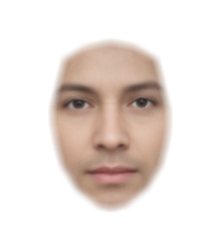
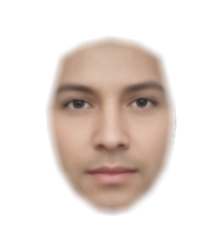
Smaller erode radius when creating face mask

Changed region(s): [[0.1909, 0.14, 0.8182, 0.868]]

diff --git a/transformer/blender.py b/transformer/blender.py
@@ -3,7 +3,7 @@ import numpy as np
 import scipy.sparse
 
 def mask_from_points(size, points):
-  radius = 15  # kernel size
+  radius = 10  # kernel size
   kernel = np.ones((radius, radius), np.uint8)
 
   mask = np.zeros(size, np.uint8)
